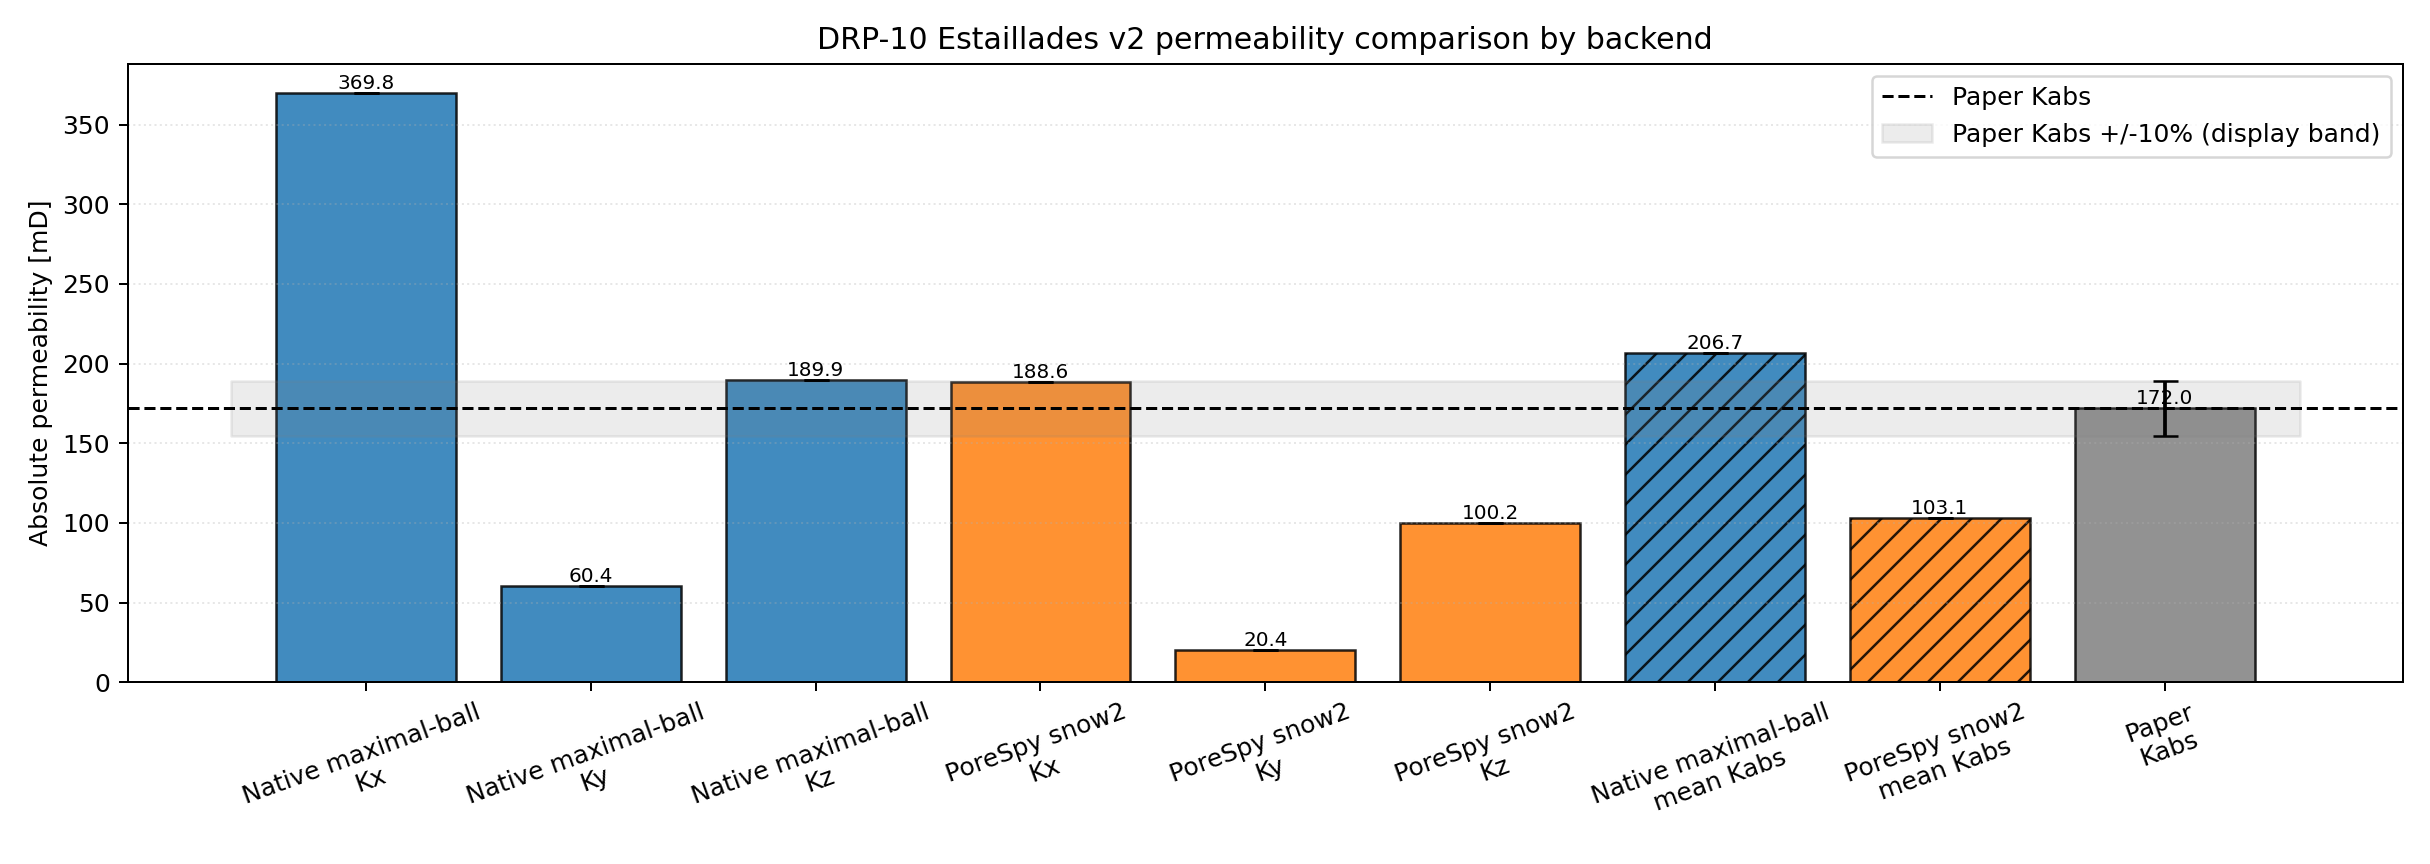
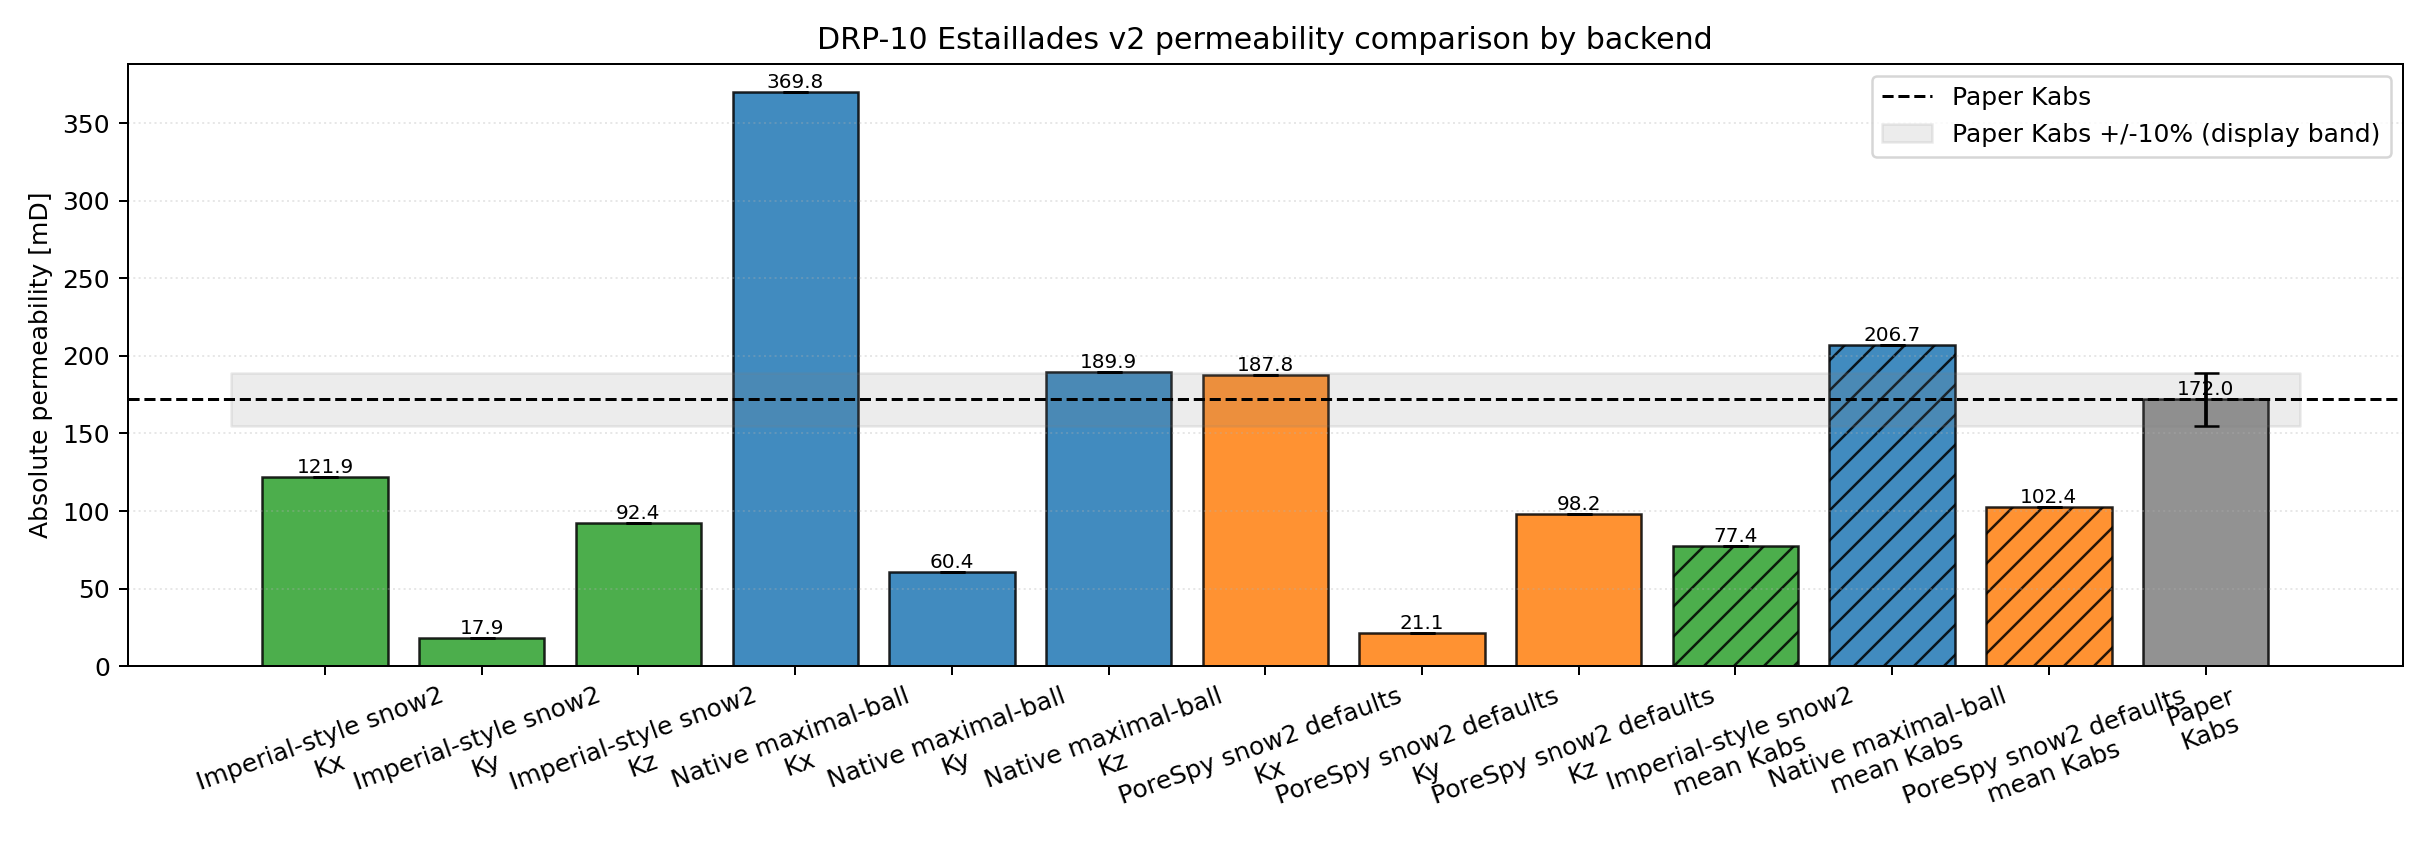
Add imperial_snow2 extraction backend and update configurations in ipynb 31
- Introduced a new extraction backend: imperial_snow2 with specific configurations.
- Updated comparison extraction backends to include imperial_snow2 alongside snow2.
- Enhanced extraction backend configurations with labels and geometry repairs.
- Added handling for imperial_snow2 directional permeability calculations.
- Updated backend colors for visualization to include imperial_snow2.

diff --git a/notebooks/31_mwe_drp10_estaillades_raw_porosity_perm.py b/notebooks/31_mwe_drp10_estaillades_raw_porosity_perm.py
@@ -96,7 +96,7 @@ paper_citation = (
 flow_axis = "x"  # Paper computes absolute permeability left-to-right.
 trim_nonpercolating_paths = True
 extraction_backend = "native_maximal_ball"
-comparison_extraction_backends = ("snow2",)
+comparison_extraction_backends = ("snow2", "imperial_snow2")
 extraction_backends = tuple(
     dict.fromkeys((extraction_backend, *comparison_extraction_backends))
 )
@@ -115,7 +115,12 @@ extraction_backend_configs: dict[str, dict[str, object]] = {
         "geometry_repairs": geometry_repairs,
     },
     "snow2": {
-        "label": "PoreSpy snow2",
+        "label": "PoreSpy snow2 defaults",
+        "extraction_kwargs": {},
+        "geometry_repairs": None,
+    },
+    "imperial_snow2": {
+        "label": "Imperial-style snow2",
         "extraction_kwargs": {},
         "geometry_repairs": "imperial_export",
     },
@@ -639,6 +644,9 @@ kabs_rms_mD = float(
 snow2_kabs_directional = kabs_directional_by_backend[
     kabs_directional_by_backend["backend"] == "snow2"
 ].reset_index(drop=True)
+imperial_snow2_kabs_directional = kabs_directional_by_backend[
+    kabs_directional_by_backend["backend"] == "imperial_snow2"
+].reset_index(drop=True)
 
 phi_image_pct = 100.0 * phi_image_full
 phi_abs_pct = 100.0 * phi_abs
@@ -767,6 +775,7 @@ bar_values = (
 )
 bar_errors = [0.0] * (len(bar_labels) - 1) + [paper_kabs_error_mD]
 backend_colors = {
+    "imperial_snow2": "tab:green",
     "native_maximal_ball": "tab:blue",
     "snow2": "tab:orange",
 }